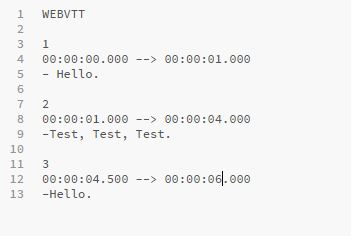
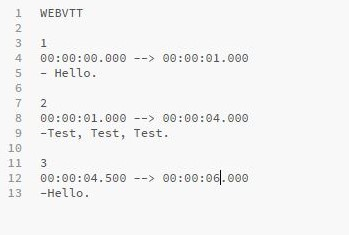
Fixing AudioVideo IMG?
Idk c:

diff --git a/audioVideo.html b/audioVideo.html
@@ -101,7 +101,7 @@
             <div class="threeFourthColumnWF">
                 <div class="fullpaddingNBWF">
                     <br><br>
-                    <img src="images/audioSE.jpg" alt="WEBVTT [enter] [enter] 1 [enter] 00:00:00.00 --> 00:00:01.00 [enter] - Hello. [enter] [enter] 2 [enter] 00:00:01.000 --> 00:00:04.000 [enter] -Test, Test, Test. [enter] [enter] 3 [enter] 00:00:04.500 --> 00:00:06.000 [enter] -Hello." height="100%" width="100%">
+                    <img src="images/audioSE.JPG" alt="WEBVTT [enter] [enter] 1 [enter] 00:00:00.00 --> 00:00:01.00 [enter] - Hello. [enter] [enter] 2 [enter] 00:00:01.000 --> 00:00:04.000 [enter] -Test, Test, Test. [enter] [enter] 3 [enter] 00:00:04.500 --> 00:00:06.000 [enter] -Hello." height="100%" width="100%">
                 </div>
             </div>
             <div class="oneFourthColumnWF">
